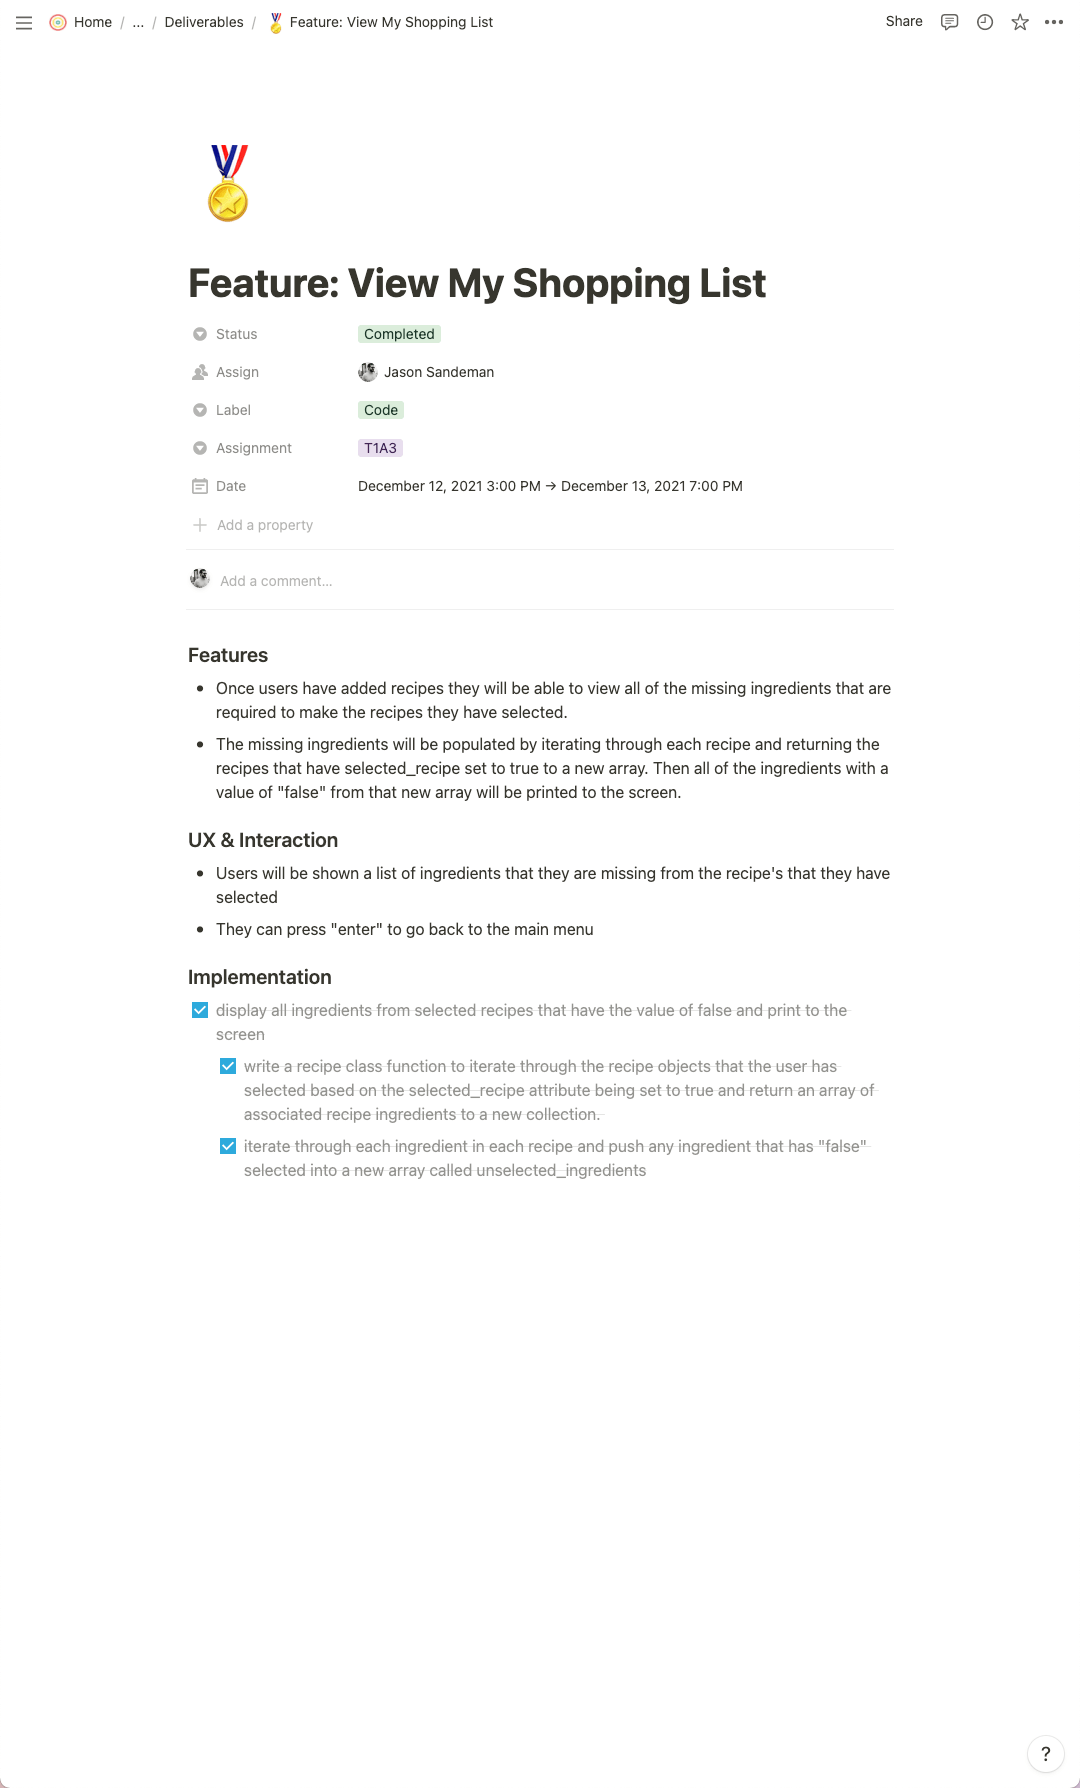
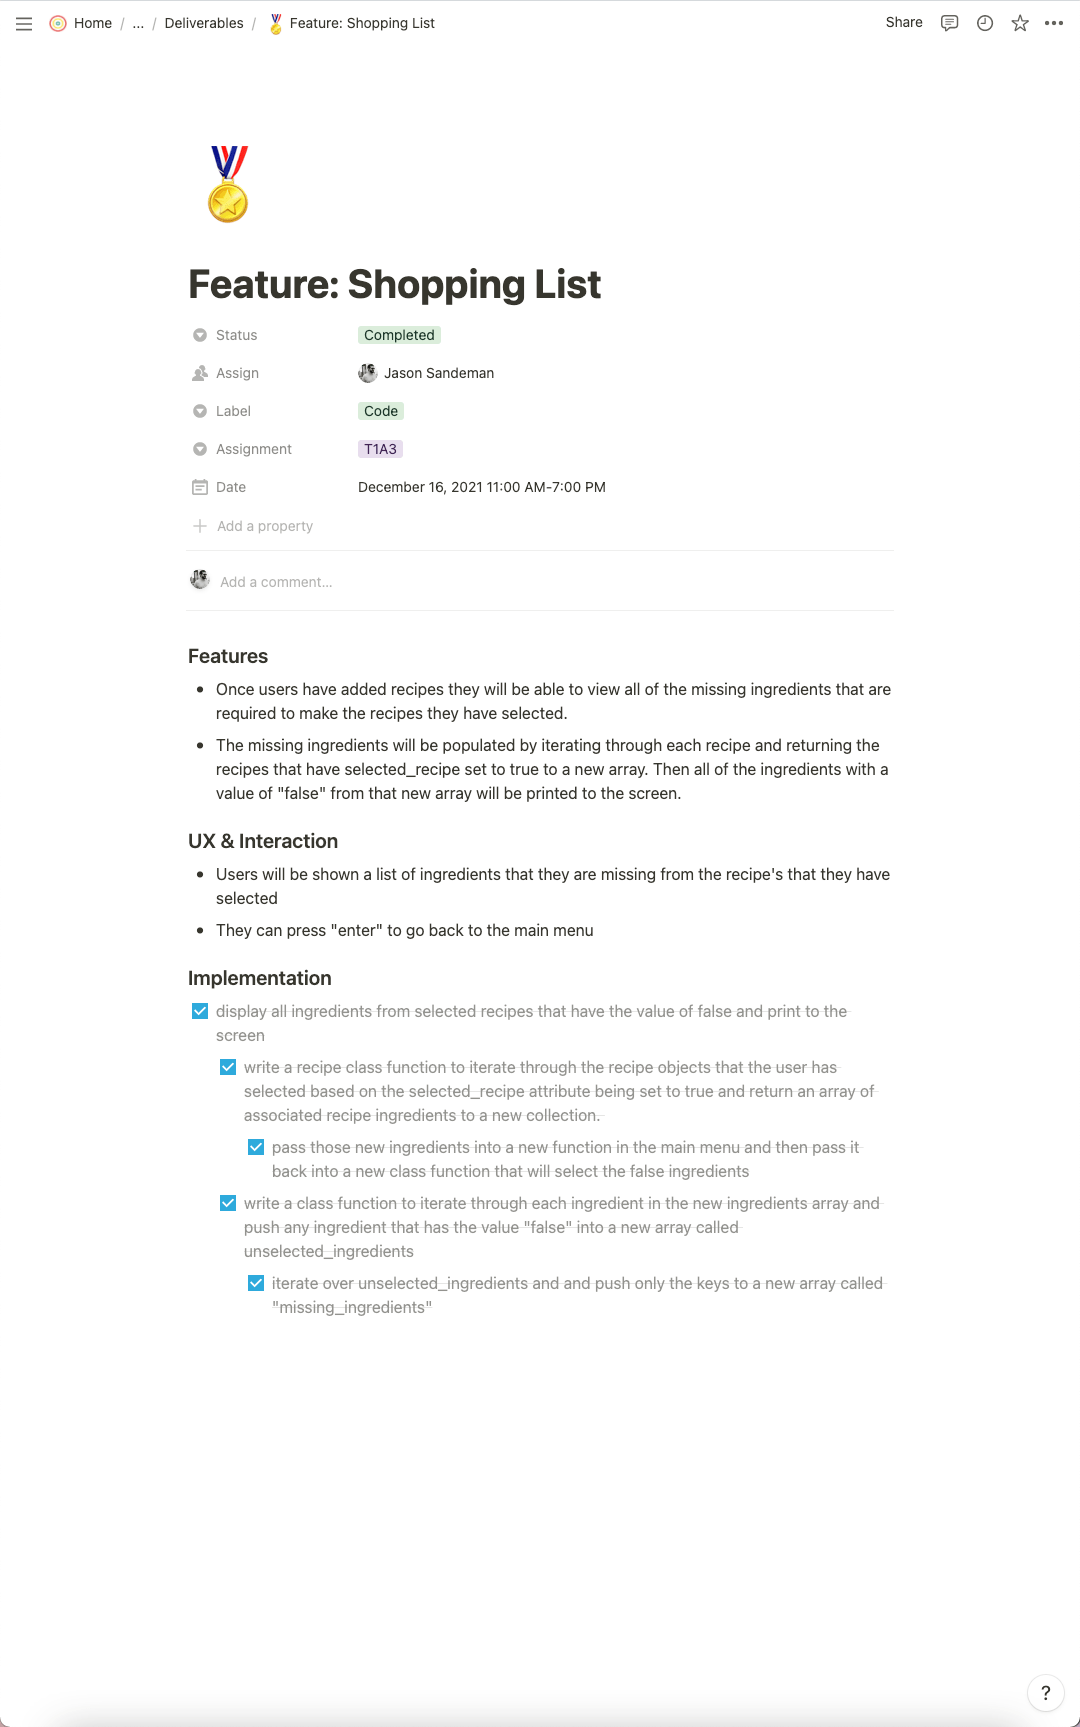
minor modifications to README. updated shopping list feature implementation plan and optimised image. updated comment in install.sh.

diff --git a/README.md b/README.md
@@ -44,7 +44,7 @@ Alternatively you can give the app a head start by passing in your name with the
    ruby main.rb "John Connor"
 ```
 
-## Troubleshooting
+## Troubleshooting/Help
 
 To run this application on your computer you will need access to your terminal with the correct permissions enabled so that you run bash commands from the terminal.
 
